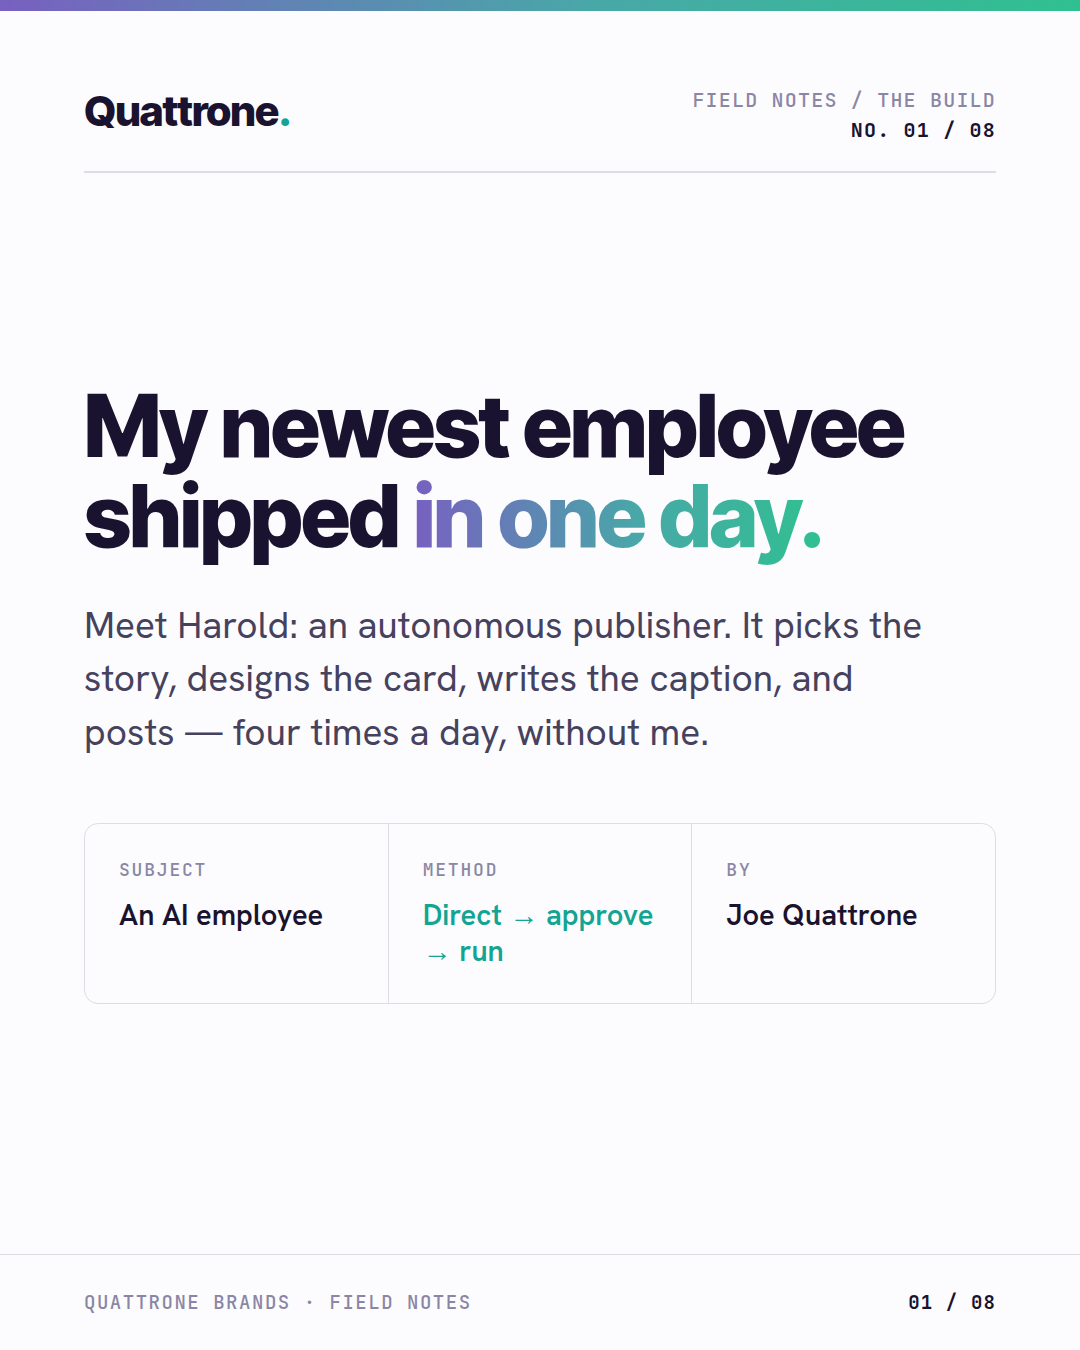
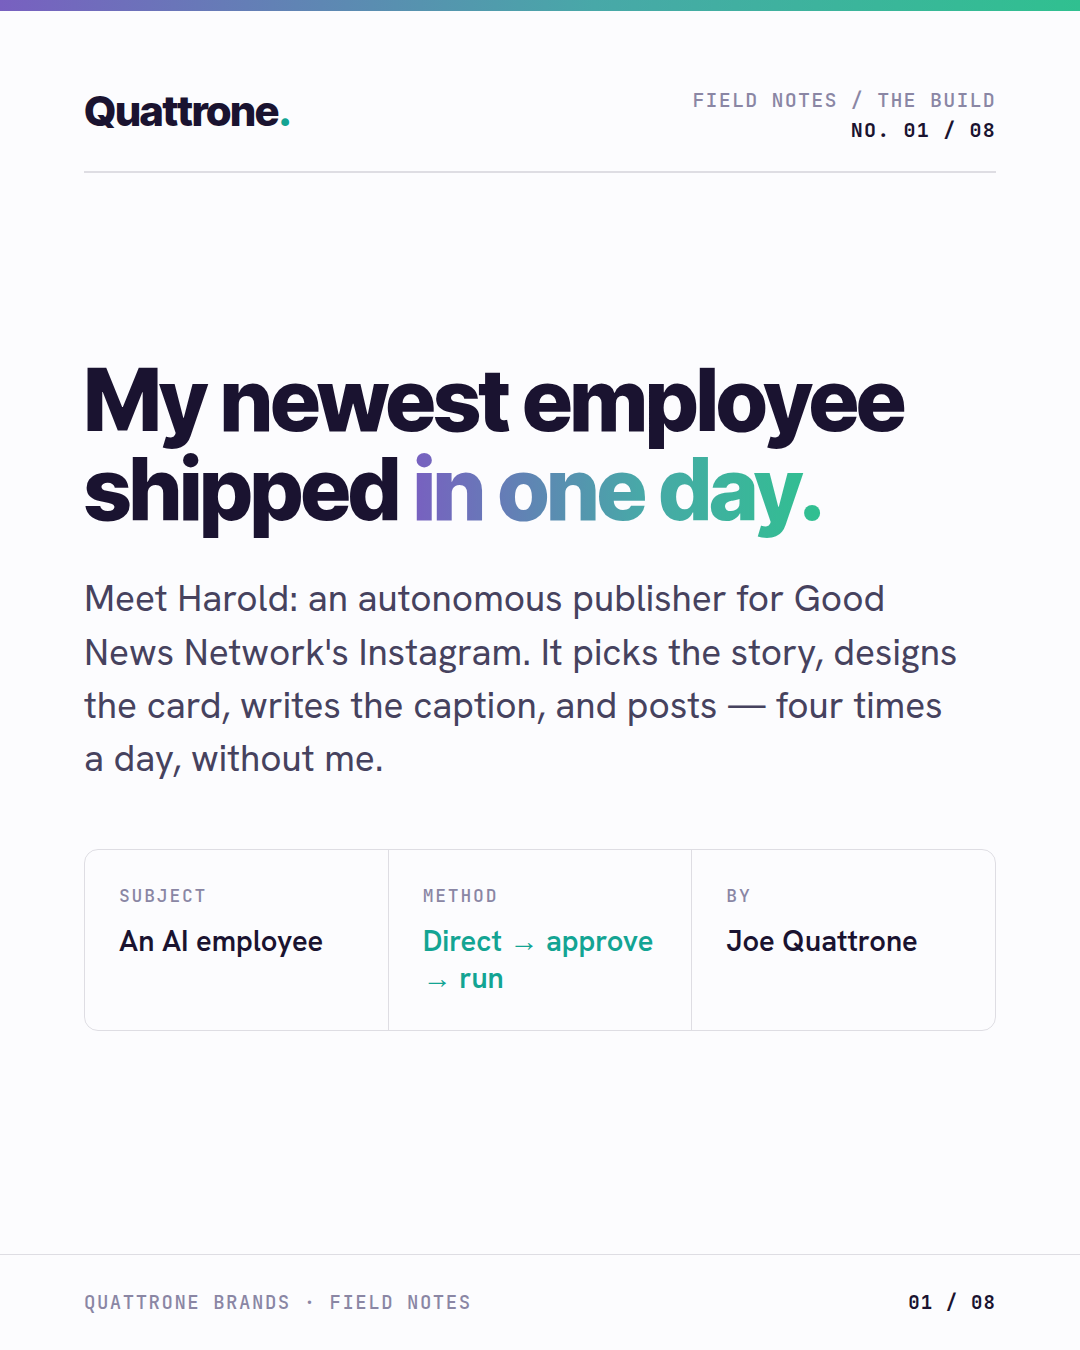
Case study: signature on close card, name Good News Network across carousel and copy
- Caveat handwriting signature mark in the signed sign-off (swap point for Joe's real signature image)
- GNN named on cover, timeline (@goodnewsnetwork, 48.8K followers), and close card
- 3-cuts copy and case study doc updated to match — verification-as-proof framing

Claude-Session: https://claude.ai/code/session_01C1xT5CvrgDqA13F8bsbkV1

diff --git a/case-study/carousel/harold-carousel.html b/case-study/carousel/harold-carousel.html
@@ -84,6 +84,10 @@ body{background:#33313a;}
 
 .strike{position:relative;display:inline-block;}
 .strike:after{content:"";position:absolute;left:-4px;right:-4px;top:52%;height:5px;background:var(--rose);transform:rotate(-1.4deg);}
+
+/* signature (close card) */
+@font-face{font-family:'Caveat';font-style:normal;font-weight:600;src:url('fonts/caveat.woff2') format('woff2');}
+.sig{font-family:'Caveat',cursive;font-weight:600;font-size:74px;color:var(--ink);line-height:1;transform:rotate(-2.2deg);margin:2px 0 10px 2px;}
 </style>
 </head>
 <body>
@@ -99,7 +103,7 @@ body{background:#33313a;}
     <div class="hair head-hair"></div>
     <div class="content" style="justify-content:center;padding-bottom:40px;">
       <div class="h" style="font-size:86px;">My newest employee<br>shipped <span class="grad">in one day.</span></div>
-      <div class="lead" style="font-size:37px;margin-top:38px;max-width:860px;">Meet Harold: an autonomous publisher. It picks the story, designs the card, writes the caption, and posts — four times a day, without me.</div>
+      <div class="lead" style="font-size:37px;margin-top:38px;max-width:880px;">Meet Harold: an autonomous publisher for Good News Network's Instagram. It picks the story, designs the card, writes the caption, and posts — four times a day, without me.</div>
       <div class="field" style="margin-top:64px;">
         <div class="col"><div class="lab">Subject</div><div class="val">An AI employee</div></div>
         <div class="col"><div class="lab">Method</div><div class="val teal">Direct &rarr; approve &rarr; run</div></div>
@@ -138,7 +142,7 @@ body{background:#33313a;}
         <div class="step"><span class="k" style="background:#1A1330"></span><span class="t">6:57 pm — first commit.</span></div>
         <div class="step"><span class="k" style="background:#C4464C"></span><span class="t">7:13 pm — signature card design approved, then locked.</span></div>
         <div class="step"><span class="k" style="background:#262150"></span><span class="t">overnight — scheduled in the cloud. No machine of mine runs it.</span></div>
-        <div class="step"><span class="k" style="background:#13A493"></span><span class="t">8:16 am — first live post on a real Instagram account.</span></div>
+        <div class="step"><span class="k" style="background:#13A493"></span><span class="t">8:16 am — first live post on @goodnewsnetwork (48.8K followers).</span></div>
       </div>
       <div class="note" style="margin-top:auto;margin-bottom:64px;font-size:25px;">24 pull requests merged in the first ~24 hours.</div>
     </div>
@@ -233,10 +237,10 @@ body{background:#33313a;}
       <div class="lead" style="font-size:37px;margin-top:38px;max-width:850px;">I decide what the brand says, how it looks, and what it's allowed to do alone. The system handles everything in between. That's building on my terms.</div>
       <!-- signed sign-off motif -->
       <div class="field" style="margin-top:64px;border-left:6px solid transparent;border-image:linear-gradient(180deg,#7860C0,#48A8A8,#30C090) 1;">
-        <div class="col" style="flex:1.4;"><div class="lab">Signed</div><div class="val">Joe Quattrone <span style="color:var(--muted);font-weight:400;">/ Quattrone Brands</span></div></div>
+        <div class="col" style="flex:1.4;"><div class="lab">Signed</div><div class="sig">Joe Quattrone</div><div class="val" style="font-size:24px;">Joe Quattrone <span style="color:var(--muted);font-weight:400;">/ Quattrone Brands</span></div></div>
         <div class="col"><div class="lab">Envelope ID</div><div class="val" style="font-family:var(--mono);font-size:24px;">HAROLD-BUILD-0716</div></div>
       </div>
-      <div class="note" style="margin-top:34px;font-size:23px;">Follow for more field notes on the Human OS.</div>
+      <div class="note" style="margin-top:34px;font-size:23px;">See the build live: @goodnewsnetwork on Instagram · follow for more field notes on the Human OS.</div>
     </div>
   </div>
   <div class="foot"><div class="fl">Quattrone Brands · Field Notes</div><div class="fr">08 / 08</div></div>

diff --git a/case-study/harold-copy-3cuts.md b/case-study/harold-copy-3cuts.md
@@ -1,7 +1,7 @@
 # CONSTELLATION — "The Build" (Harold)
 **Series:** Personal Brand (Human OS / post-AI leverage) · **God Dial:** 2 (AI Operator flex, but the psychology stays load-bearing: direction > production, taste as moat) · **Face mix:** Joe's story as proof, audience-mirror in the turn
 **One insight:** AI didn't replace the builder — it changed the job. Production became direction: the human decides what gets made, how it looks, and what runs alone; the AI handles everything between the decisions.
-**Guardrail:** The client brand is anonymized ("a media brand's Instagram"). No tool-stack name-drops in v1 — "the AI" throughout; expand to named tools only if Joe opts into the full operator flex. All numbers verified against the repo's git history and post ledger.
+**Guardrail:** Good News Network is named (Joe's call, 2026-07-16) — verification IS the proof: readers can open @goodnewsnetwork and see Harold's posts live. No tool-stack name-drops in v1 — "the AI" throughout; expand to named tools only if Joe opts into the full operator flex. All numbers verified against the repo's git history and post ledger.
 
 **Companion asset:** `carousel/harold-carousel-01..08.png` (Field Notes / The Build, 8 slides, rendered from `carousel/harold-carousel.html`).
 
@@ -20,7 +20,7 @@
 "I didn't write code. I didn't open a design tool. I made decisions. Locked the visual design sixteen minutes in. Approved every dry run before anything touched the feed. Said 'the badge is too big' about five different ways. The AI did everything between my decisions — including five rounds of API plumbing I never want to understand."
 
 **[method · SCREENSHOT LINE]**
-"Thirteen hours after the first commit, it posted to a real Instagram account."
+"Thirteen hours after the first commit, it posted to the Good News Network's Instagram — 48,000 followers. Go look: @goodnewsnetwork."
 *[cut to: timeline graphic — 6:57pm first commit → 7:13pm design locked → 8:16am live post]*
 "It posted twelve times on day one. I kept the six that earned it. Taste is still my job — that's the point."
 
@@ -36,7 +36,7 @@
 
 **2/** First: what I didn't do. I didn't write code. I didn't open a design tool. I didn't "prompt an app into existence." I directed one. My entire contribution was decisions: what it makes, how it looks, when it's allowed to act.
 
-**3/** The timeline, from the git history: first commit at 6:57pm. Signature card design approved and locked by 7:13pm — sixteen minutes in. Scheduled in the cloud overnight. First live post on a real account at 8:16am. 13 hours, 20 minutes, commit to published.
+**3/** The timeline, from the git history: first commit at 6:57pm. Signature card design approved and locked by 7:13pm — sixteen minutes in. Scheduled in the cloud overnight. First live post on @goodnewsnetwork (48K followers) at 8:16am. 13 hours, 20 minutes, commit to published.
 
 **4/** Locking the design 16 minutes in was the most important decision of the whole build. Once the template was frozen, every downstream step became "fill the template" — never "redesign it." Constraint is what makes autonomy safe.
 
@@ -48,7 +48,7 @@
 
 **8/** The math people skip: four posts a day, on schedule, unattended, free-tier infrastructure. My total investment was one day of direction and a few minutes of taste per week. Headcount scales linearly. Systems compound.
 
-**9/** The human is the hero. AI is the companion. I decide what the brand says, how it looks, and what it's allowed to do alone — the system handles everything in between. In the post-AI era, that's how I build: on my terms. Steal it.
+**9/** The human is the hero. AI is the companion. I decide what the brand says, how it looks, and what it's allowed to do alone — the system handles everything in between. In the post-AI era, that's how I build: on my terms. The build is live right now at @goodnewsnetwork. Go see the work, then steal the method.
 
 ---
 
@@ -63,7 +63,7 @@ Here's the part that matters, though — what my day actually looked like. Becau
 
 I made decisions. I locked the visual design sixteen minutes into the build, and it stayed locked — every step after that filled the template rather than redesigning it. I approved dry runs before anything was allowed to touch a live feed. I gave design notes an art director would recognize: "the badge is too big," five rounds, six pixels at a time. The AI handled everything between my decisions — including five consecutive fixes to one API's token handling that I never had to understand.
 
-Thirteen hours and twenty minutes after the first commit, it published to a real Instagram account. It posted twelve times on day one. I kept the six that earned their place and pulled the rest — because taste didn't get automated. Taste got *promoted*. It's now the whole job.
+Thirteen hours and twenty minutes after the first commit, it published to the Good News Network's Instagram — @goodnewsnetwork, 48,000 followers. You can go look at the work right now. It posted twelve times on day one. I kept the six that earned their place and pulled the rest — because taste didn't get automated. Taste got *promoted*. It's now the whole job.
 
 And before it earned autonomy, it earned trust: dry-run by default, a quality gate so a bad photo can't ship an ugly post at 2am, a ledger so it never repeats itself. A demo works when you watch it. An employee works when you don't.
 

diff --git a/case-study/harold-case-study.md b/case-study/harold-case-study.md
@@ -164,8 +164,9 @@ waitlist link? DM? Newsletter signup?]
 1. **Branding materials:** logo files, brand colors (hex), fonts, any voice/
    style guide Quattrone Brands uses.
 2. **Positioning decisions:** title choice; how much to reveal about tooling
-   (name the specific AI tools, or keep it generic "AI agent"?); whether GNN
-   is named or anonymized ("a media brand's Instagram").
+   (name the specific AI tools, or keep it generic "AI agent"?). ~~Whether GNN
+   is named~~ — **resolved 2026-07-16: named**, so readers can verify the
+   build live at @goodnewsnetwork.
 3. **Your quotes:** the thesis tie-in section and 1–2 teaching moments in
    your voice.
 4. **The Instagram grid screenshot** (only you have account access).
